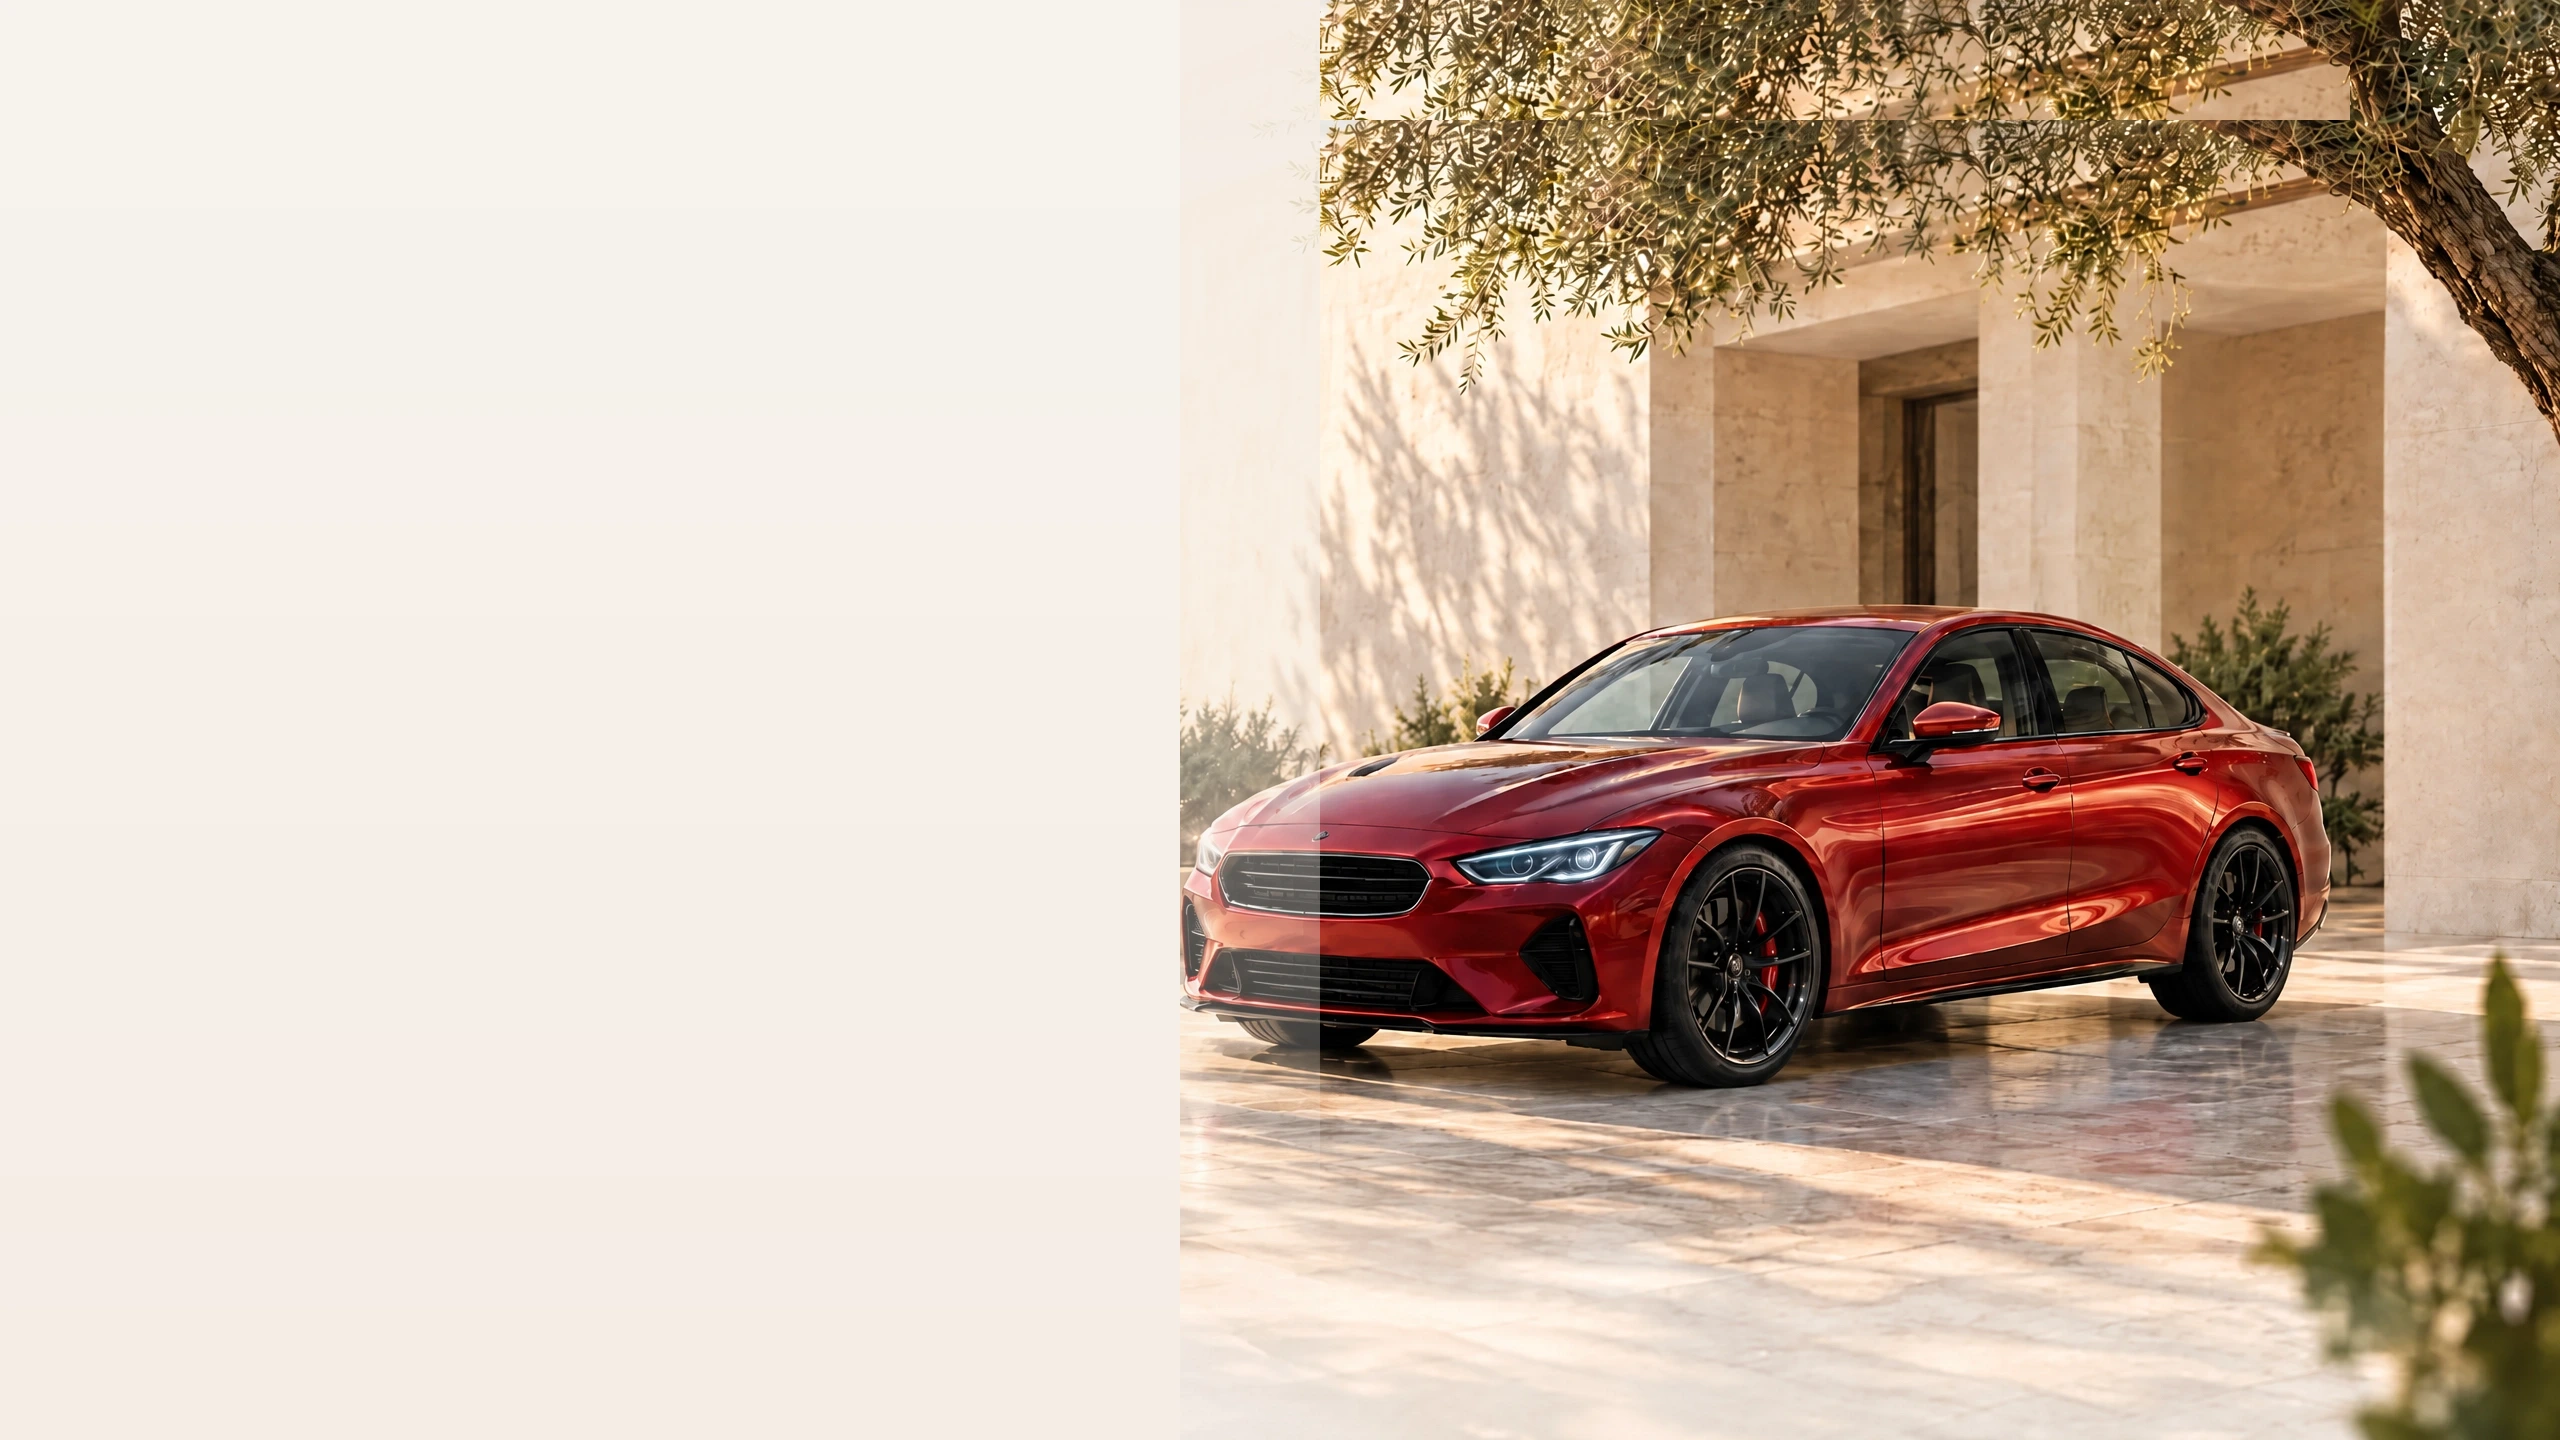
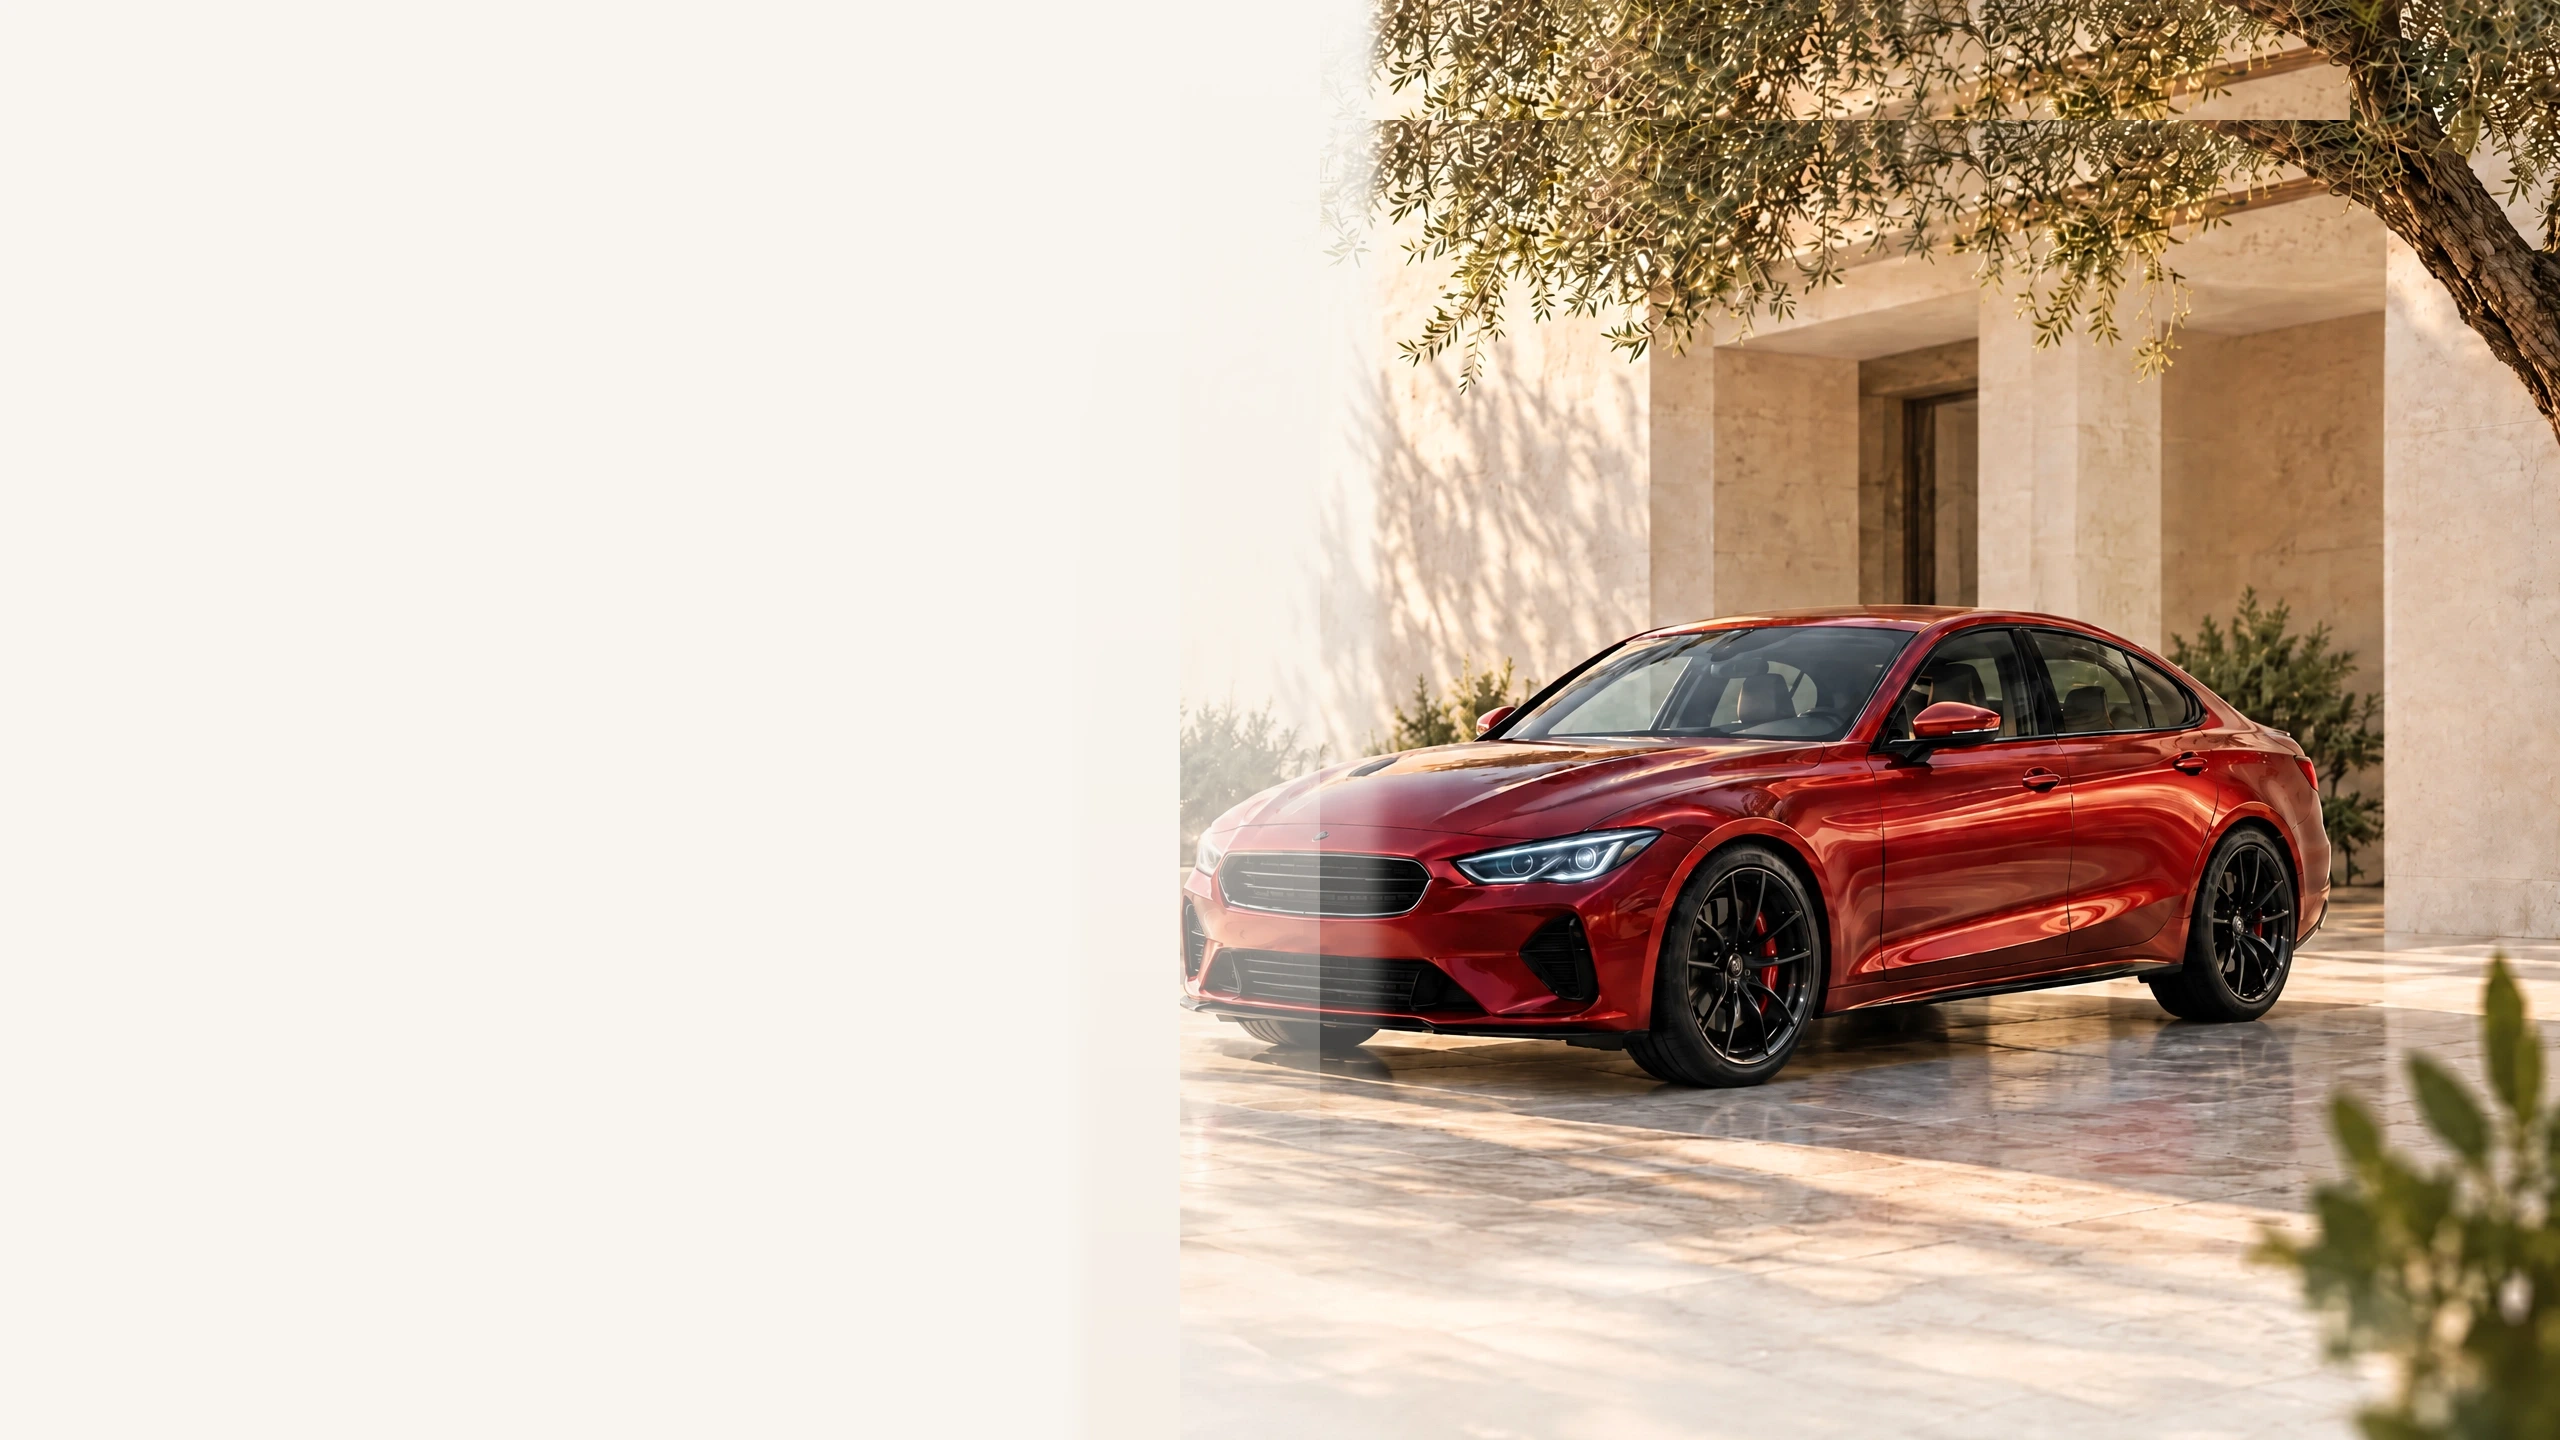
j

Changed region(s): [[0.4375, 0.3438, 0.5625, 0.7812], [0.5, 0.0, 0.5625, 0.1875], [0.5, 0.25, 0.5625, 0.3125]]

diff --git a/app/globals.css b/app/globals.css
@@ -148,17 +148,17 @@ button { cursor: pointer; }
   flex-direction: column;
   min-height: calc(100svh - 90px);
   overflow: hidden;
-  padding: clamp(24px, 3vh, 48px) 0 36px;
-  background:
-    radial-gradient(circle at 82% 28%, rgba(245, 230, 218, 0.45) 0%, transparent 60%),
-    radial-gradient(circle at 12% 18%, rgba(255, 248, 240, 0.7) 0%, transparent 55%),
-    linear-gradient(135deg, #f9f6f2 0%, #f4ede4 50%, #ede3d5 100%);
+  padding: clamp(24px, 3vh, 48px) 0 0;
+  background: #f7f4ef;
   border-bottom: 1px solid rgba(226, 215, 203, 0.8);
 }
 
 .hero-full-bg-wrap {
   position: absolute;
-  inset: 0;
+  top: 0;
+  left: 0;
+  right: 0;
+  bottom: 94px;
   overflow: hidden;
   pointer-events: none;
   z-index: 1;
@@ -169,15 +169,49 @@ button { cursor: pointer; }
   object-position: right 45%;
   width: 100%;
   height: 100%;
+  /* Crisp mask: fades only the empty stone wall on the far left, reaching 100% opacity before the red car begins */
+  -webkit-mask-image: linear-gradient(
+    to right,
+    transparent 0%,
+    transparent 26%,
+    rgba(0, 0, 0, 0.25) 35%,
+    rgba(0, 0, 0, 0.8) 42%,
+    #000000 46%,
+    #000000 100%
+  );
+  mask-image: linear-gradient(
+    to right,
+    transparent 0%,
+    transparent 26%,
+    rgba(0, 0, 0, 0.25) 35%,
+    rgba(0, 0, 0, 0.8) 42%,
+    #000000 46%,
+    #000000 100%
+  );
 }
 
-.hero-full-bg-overlay {
+/* Atmospheric smoke removed to eliminate milky wash over the vehicle */
+.hero-bg-smoke-mist {
+  display: none;
+}
+
+/* Directional Scrim: protects editorial text on the left, completely clear of the car */
+.hero-bg-dim-scrim {
   position: absolute;
   inset: 0;
-  background:
-    linear-gradient(90deg, rgba(247, 244, 239, 0.98) 0%, rgba(247, 244, 239, 0.94) 36%, rgba(247, 244, 239, 0.3) 50%, transparent 64%),
-    radial-gradient(circle at 80% 25%, rgba(255, 248, 235, 0.25) 0%, transparent 60%);
+  background: linear-gradient(
+    90deg,
+    #f7f4ef 0%,
+    #f7f4ef 24%,
+    rgba(247, 244, 239, 0.85) 32%,
+    rgba(247, 244, 239, 0.2) 40%,
+    transparent 46%
+  );
   pointer-events: none;
+}
+
+.hero-bg-ambient-glow {
+  display: none;
 }
 
 .hero-container-exact {
@@ -387,18 +421,45 @@ button { cursor: pointer; }
     max-width: 100%;
   }
   .hero-right-stage {
-    min-height: 240px;
+    min-height: 280px;
   }
   .hero-full-bg-image {
-    object-position: 70% center;
+    object-position: center bottom;
+    -webkit-mask-image: linear-gradient(
+      to bottom,
+      transparent 0%,
+      transparent 35%,
+      rgba(0, 0, 0, 0.35) 55%,
+      #000000 80%
+    );
+    mask-image: linear-gradient(
+      to bottom,
+      transparent 0%,
+      transparent 35%,
+      rgba(0, 0, 0, 0.35) 55%,
+      #000000 80%
+    );
   }
-  .hero-full-bg-overlay {
+  .hero-bg-dim-scrim {
     background:
-      linear-gradient(180deg, rgba(247, 244, 239, 0.96) 0%, rgba(247, 244, 239, 0.88) 55%, rgba(247, 244, 239, 0.4) 100%);
+      linear-gradient(180deg, #f7f4ef 0%, #f7f4ef 45%, rgba(247, 244, 239, 0.75) 65%, transparent 100%);
+  }
+  .hero-bg-smoke-mist {
+    background:
+      radial-gradient(circle at 50% 70%, rgba(247, 244, 239, 0.8) 0%, transparent 70%);
   }
 }
 
 /* Reassurance trust ribbon below hero */
+.hero-ribbon-wrapper {
+  position: relative;
+  z-index: 5;
+  background: #f7f4ef;
+  border-top: 1px solid rgba(226, 215, 203, 0.9);
+  width: 100%;
+}
+
+.hero-ribbon-wrapper > .trust-ribbon,
 .hero-section > .trust-ribbon {
   width: min(var(--container), calc(100% - var(--page-gutter)));
   max-width: 1760px;
@@ -407,8 +468,8 @@ button { cursor: pointer; }
   grid-template-columns: minmax(210px, 1.25fr) repeat(4, minmax(0, 1fr));
   align-items: stretch;
   gap: 0;
-  margin-top: clamp(32px, 5vh, 52px);
-  border-top: 1px solid var(--color-border);
+  margin: 0 auto;
+  border-top: none;
   color: #555760;
 }
 .trust-ribbon__lead {
@@ -472,7 +533,7 @@ button { cursor: pointer; }
 .section-heading--center .eyebrow { justify-content: center; }
 .section-heading--center .section-heading__description { margin-inline: auto; }
 
-.benefit-intro { display: flex; align-items: end; justify-content: space-between; gap: 25px; margin-bottom: 40px; }
+.benefit-intro { display: flex; align-items: flex-end; justify-content: space-between; gap: 25px; margin-bottom: 40px; }
 .benefit-intro__index { display: flex; align-items: center; gap: 9px; margin-bottom: 7px; color: var(--color-muted); font-size: 10px; font-weight: 700; letter-spacing: .12em; white-space: nowrap; }
 .benefit-intro__index i { width: 44px; height: 1px; background: var(--color-border-strong); }
 
@@ -493,7 +554,7 @@ button { cursor: pointer; }
 
 /* Coverage Grid */
 .section--coverage { background: var(--color-paper); }
-.coverage-heading-row, .process-heading-row, .stories-heading-row { display: flex; align-items: end; justify-content: space-between; gap: 30px; }
+.coverage-heading-row, .process-heading-row, .stories-heading-row { display: flex; align-items: flex-end; justify-content: space-between; gap: 30px; }
 .coverage-heading-row { margin-bottom: 39px; }
 .coverage-heading-row__link { flex-shrink: 0; margin-bottom: 9px; }
 .coverage-grid { display: grid; grid-template-columns: repeat(3, minmax(0, 1fr)); gap: 16px; }

diff --git a/components/hero.tsx b/components/hero.tsx
@@ -7,50 +7,53 @@ import { IMAGES } from "@/lib/site-config";
 export function Hero() {
   return (
     <section className="hero-section hero-section--reference" id="hero">
-      {/* Full-Bleed hero-bg.png Background Image */}
+      {/* Full-Bleed background: 100% crisp car on the right, feathering strictly in the architectural stone area */}
       <div className="hero-full-bg-wrap" aria-hidden="true">
         <Image
-          src={IMAGES.heroBg}
+          src={IMAGES.heroBgPng || "/hero-bg.png"}
           alt="Next Auto Shield hero background featuring candy red sedan outside modern architectural villa"
           fill
           priority
-          quality={92}
+          quality={96}
           sizes="100vw"
           className="hero-full-bg-image"
           referrerPolicy="no-referrer"
         />
-        <div className="hero-full-bg-overlay" />
+        {/* Soft directional scrim behind text on the left, stopping before the vehicle */}
+        <div className="hero-bg-dim-scrim" />
       </div>
 
       <div className="hero-container-exact">
         <HeroCopy />
-        {/* Right side remains open so the candy red car and sunlit villa on hero-bg.png shine through */}
+        {/* Right side remains completely open so the candy red car and sunlit villa shine through at 100% clarity */}
         <div className="hero-right-stage" aria-hidden="true" />
       </div>
 
-      {/* Coverage Navigation Ribbon */}
-      <nav className="container trust-ribbon" aria-label="Jump to coverage details">
-        <span className="trust-ribbon__lead">
-          <small>Coverage at a glance</small>
-          <strong>Explore your options</strong>
-        </span>
-        <Link className="trust-ribbon__link" href="/#coverage-liability">
-          <span>Liability Protection</span>
-          <ArrowRight size={16} aria-hidden="true" />
-        </Link>
-        <Link className="trust-ribbon__link" href="/#coverage-collision">
-          <span>Collision Coverage</span>
-          <ArrowRight size={16} aria-hidden="true" />
-        </Link>
-        <Link className="trust-ribbon__link" href="/#coverage-comprehensive">
-          <span>Comprehensive Care</span>
-          <ArrowRight size={16} aria-hidden="true" />
-        </Link>
-        <Link className="trust-ribbon__link" href="/#coverage-roadside-assistance">
-          <span>24/7 Roadside Assistance</span>
-          <ArrowRight size={16} aria-hidden="true" />
-        </Link>
-      </nav>
+      {/* Coverage Navigation Ribbon with crisp opaque background */}
+      <div className="hero-ribbon-wrapper">
+        <nav className="container trust-ribbon" aria-label="Jump to coverage details">
+          <span className="trust-ribbon__lead">
+            <small>Coverage at a glance</small>
+            <strong>Explore your options</strong>
+          </span>
+          <Link className="trust-ribbon__link" href="/#coverage-liability">
+            <span>Liability Protection</span>
+            <ArrowRight size={16} aria-hidden="true" />
+          </Link>
+          <Link className="trust-ribbon__link" href="/#coverage-collision">
+            <span>Collision Coverage</span>
+            <ArrowRight size={16} aria-hidden="true" />
+          </Link>
+          <Link className="trust-ribbon__link" href="/#coverage-comprehensive">
+            <span>Comprehensive Care</span>
+            <ArrowRight size={16} aria-hidden="true" />
+          </Link>
+          <Link className="trust-ribbon__link" href="/#coverage-roadside-assistance">
+            <span>24/7 Roadside Assistance</span>
+            <ArrowRight size={16} aria-hidden="true" />
+          </Link>
+        </nav>
+      </div>
     </section>
   );
 }

diff --git a/app/not-found.tsx b/app/not-found.tsx
@@ -1,0 +1,22 @@
+import Link from "next/link";
+import { ArrowLeft } from "lucide-react";
+
+export default function NotFound() {
+  return (
+    <div className="container" style={{ minHeight: "60vh", display: "flex", flexDirection: "column", alignItems: "center", justifyContent: "center", textAlign: "center", padding: "64px 20px" }}>
+      <p style={{ color: "#c32626", fontWeight: 700, letterSpacing: "0.1em", textTransform: "uppercase", fontSize: "14px", margin: "0 0 12px" }}>
+        404 — Page Not Found
+      </p>
+      <h1 style={{ fontSize: "clamp(32px, 4vw, 48px)", fontWeight: 800, margin: "0 0 16px", color: "#0f172a" }}>
+        Looking for insurance coverage?
+      </h1>
+      <p style={{ maxWidth: "480px", color: "#64748b", margin: "0 0 32px", fontSize: "16px", lineHeight: 1.6 }}>
+        The page you are looking for might have been moved, removed, or is temporarily unavailable.
+      </p>
+      <Link href="/" className="button button--floating-cta" style={{ textDecoration: "none" }}>
+        <ArrowLeft size={16} aria-hidden="true" />
+        Return to Home
+      </Link>
+    </div>
+  );
+}
